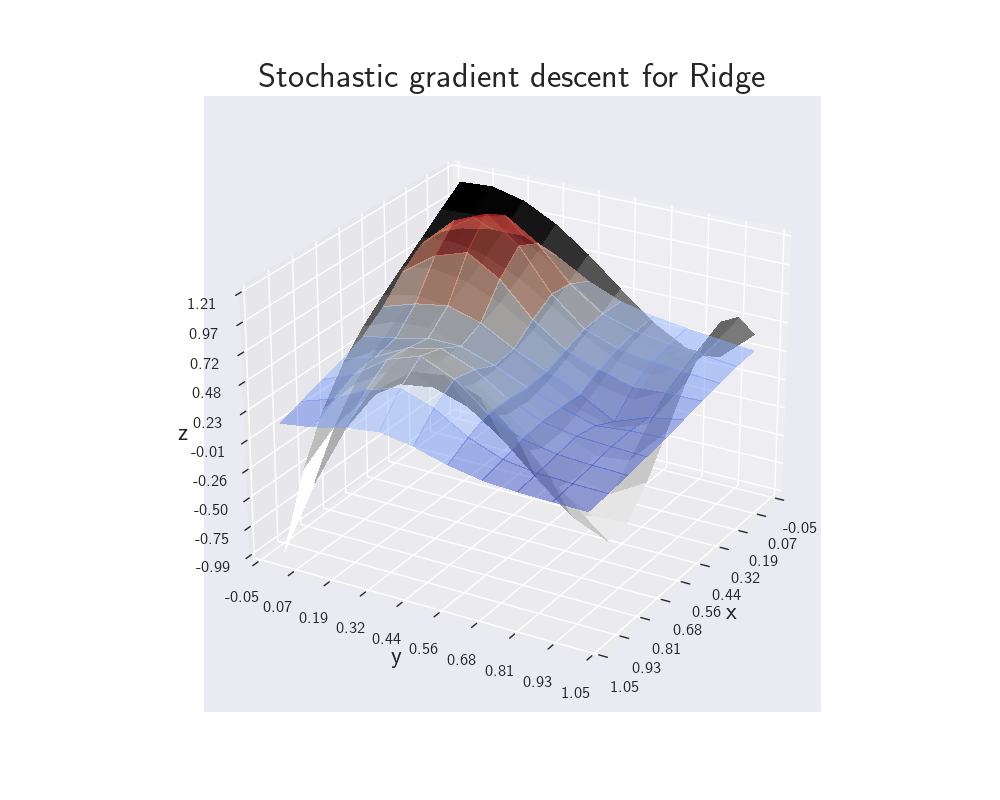
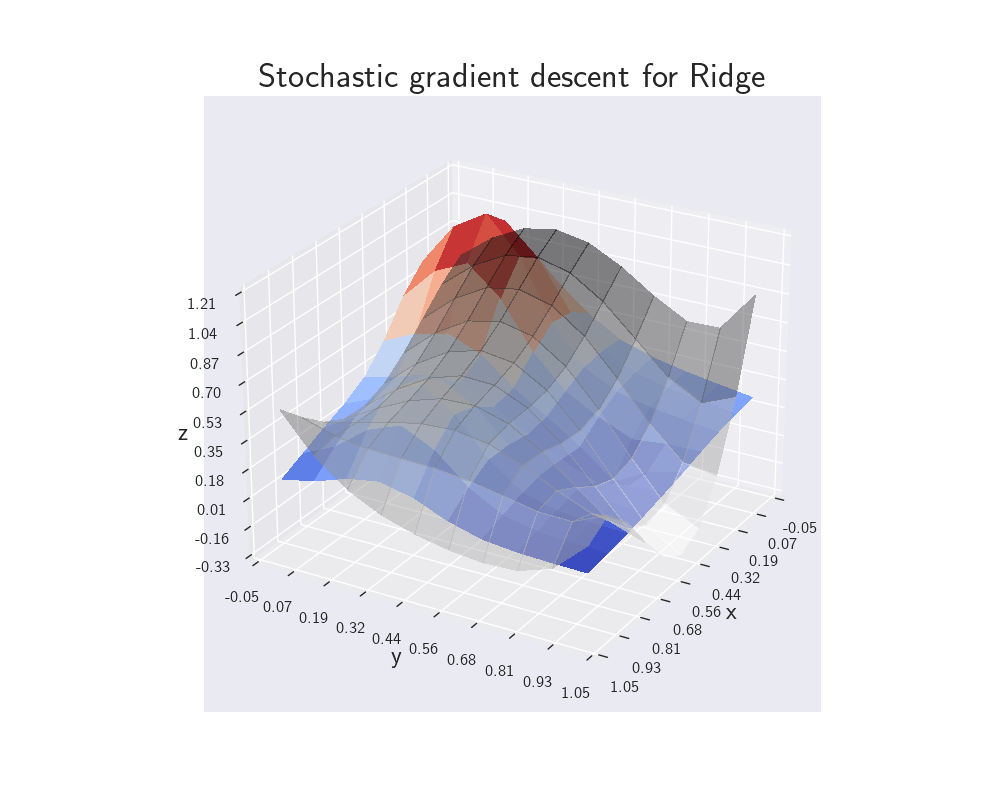
fikset iterering gjennom batches

Changed region(s): [[0.279, 0.2188, 0.775, 0.7188], [0.186, 0.5625, 0.217, 0.6562], [0.186, 0.4062, 0.217, 0.4688]]

diff --git a/Project2/methods_sebastian.py b/Project2/methods_sebastian.py
@@ -3,6 +3,7 @@ from autograd import elementwise_grad
 from common_sebastian import (MSE, learning_schedule)
 from sklearn.linear_model import SGDRegressor, LinearRegression, Ridge
 import time
+from sklearn.utils import shuffle
 
 class GradientDecent:
     def __init__(self, z, X, m, M, lamb):
@@ -17,13 +18,15 @@ class GradientDecent:
         start = time.time() # Start timer.
         beta = np.random.randn(np.shape(self.X)[1],1) # Generate random initial beta values.
         for epoch in range(n_epochs):
+            self.X_, self.z_ = shuffle(self.X, self.z) # Shuffle the data for each epoch.
             for i in range(self.m):
+                self.i = i # Index used when splitting in minibatces.
                 gradients = elementwise_grad(self.cost_func) # Use autograd to calculate the gradient of the cost function.
                 eta = learning_schedule(epoch*self.m+i,t0,t1) # Change the learning rate.
                 # Stochastic gradient descent:
                 beta = beta - eta * gradients(beta)
-                if np.linalg.norm(gradients(beta))<0.01: # If less than tolarance we stop our gradient descent.
-                        break
+                if np.linalg.norm(gradients(beta))<0.1: # If less than tolarance we stop our gradient descent.
+                    break
 
         z_pred = self.X@beta # Our model prediction.
         mean_squared_error_1 = MSE(self.z, z_pred) # Collect the mean square error.
@@ -44,15 +47,16 @@ class GradientDecent:
         start = time.time() # Start timer.
         beta = np.random.randn(np.shape(self.X)[1],1) # Generate random initial beta values.
         for epoch in range(n_epochs):
+            self.X_, self.z_ = shuffle(self.X, self.z) # Shuffle the data for each epoch.
             for i in range(self.m):
+                self.i = i # Index used when splitting in minibatces.
                 gradients = elementwise_grad(self.cost_func) # Use autograd to calculate the gradient of the cost function.
                 eta = learning_schedule(epoch*self.m+i,t0,t1) # Change the learning rate.
                 # Stochastic gradient descent with momentum:
                 v = gamma*v + eta*gradients(beta)
                 beta = beta - v
 
-                #print(np.linalg.norm(gradients(beta)))
-                if np.linalg.norm(gradients(beta))<0.01: # If less than tolarance we stop our gradient descent.
+                if np.linalg.norm(gradients(beta))<0.1: # If less than tolarance we stop our gradient descent.
                     break
 
         z_pred = self.X@beta # Our model prediction.
@@ -98,9 +102,8 @@ class GradientDecent:
 class OLS(GradientDecent):
     def cost_func(self, beta):
         # The cost function for OLS.
-        random_index = np.random.randint(self.m) # Generate random index used in distribution of batches.
-        xi = self.X[random_index*self.M:(random_index+1)*self.M]
-        zi = self.z[random_index*self.M:(random_index+1)*self.M]
+        xi = self.X_[self.i*self.M:(self.i+1)*self.M]
+        zi = self.z_[self.i*self.M:(self.i+1)*self.M]
         return 1/(len(xi)) * np.sum( (zi - (xi @ beta))**2 )
 
     def gradient_numerical(self, beta):
@@ -113,9 +116,10 @@ class OLS(GradientDecent):
 
 class Ridge(GradientDecent):
     def cost_func(self, beta):
-        random_index = np.random.randint(self.m) # Generate random index used in distribution of batches.
-        xi = self.X[random_index*self.M:(random_index+1)*self.M]
-        zi = self.z[random_index*self.M:(random_index+1)*self.M]
+        # The cost function for Ridge.
+        #random_index = np.random.randint(self.m) # Generate random index used in distribution of batches.
+        xi = self.X_[self.i*self.M:(self.i+1)*self.M]
+        zi = self.z_[self.i*self.M:(self.i+1)*self.M]
         # The cost function for Ridge.
         return 1/ len(xi) * np.sum( (zi - (xi @ beta))**2 ) + np.sum(beta.T@beta) * self.lamb
 

diff --git a/Project2/main_sebastian.py b/Project2/main_sebastian.py
@@ -41,7 +41,7 @@ def main_1():
     MSE2_OLS, beta2 = model.GDM(x, y, z_data, n_epochs, t0, t1, v, gamma, tol, True)
     # Plots for OLS:
     model_terrain(X, x, y, beta1, N, 'Stochastic gradient descent for OLS', z_data, alph_2, alph_1)
-    model_terrain(X, x, y, beta2, N, 'Stochastic gradient descent with momentum for OLS', z_data, alph_1, alph_2)
+    model_terrain(X, x, y, beta2, N, 'Stochastic gradient descent with momentum for OLS', z_data, alph_2, alph_1)
     # Compare with scikit: (we only have loss model for OLS).
     eta0 = 0.001 # When we compare with scikitlearn we use a constant learning rate.
     model.compare_MSE(n_epochs, t0, eta0)
@@ -52,7 +52,7 @@ def main_1():
     MSE1_Ridge, beta1 = model.SGD(x, y, z_data, n_epochs, t0, t1, tol, False)
     MSE2_Ridge, beta2 = model.GDM(x, y, z_data, n_epochs, t0, t1, v, gamma, tol, False)
     # Plots for Ridge:
-    model_terrain(X, x, y, beta1, N, 'Stochastic gradient descent for Ridge', z_data, alph_2, alph_1)
+    model_terrain(X, x, y, beta1, N, 'Stochastic gradient descent for Ridge', z_data, alph_1, alph_2)
     model_terrain(X, x, y, beta2, N, 'Stochastic gradient descent with momentum for Ridge', z_data, alph_2, alph_1)
 
     return MSE2_Ridge
